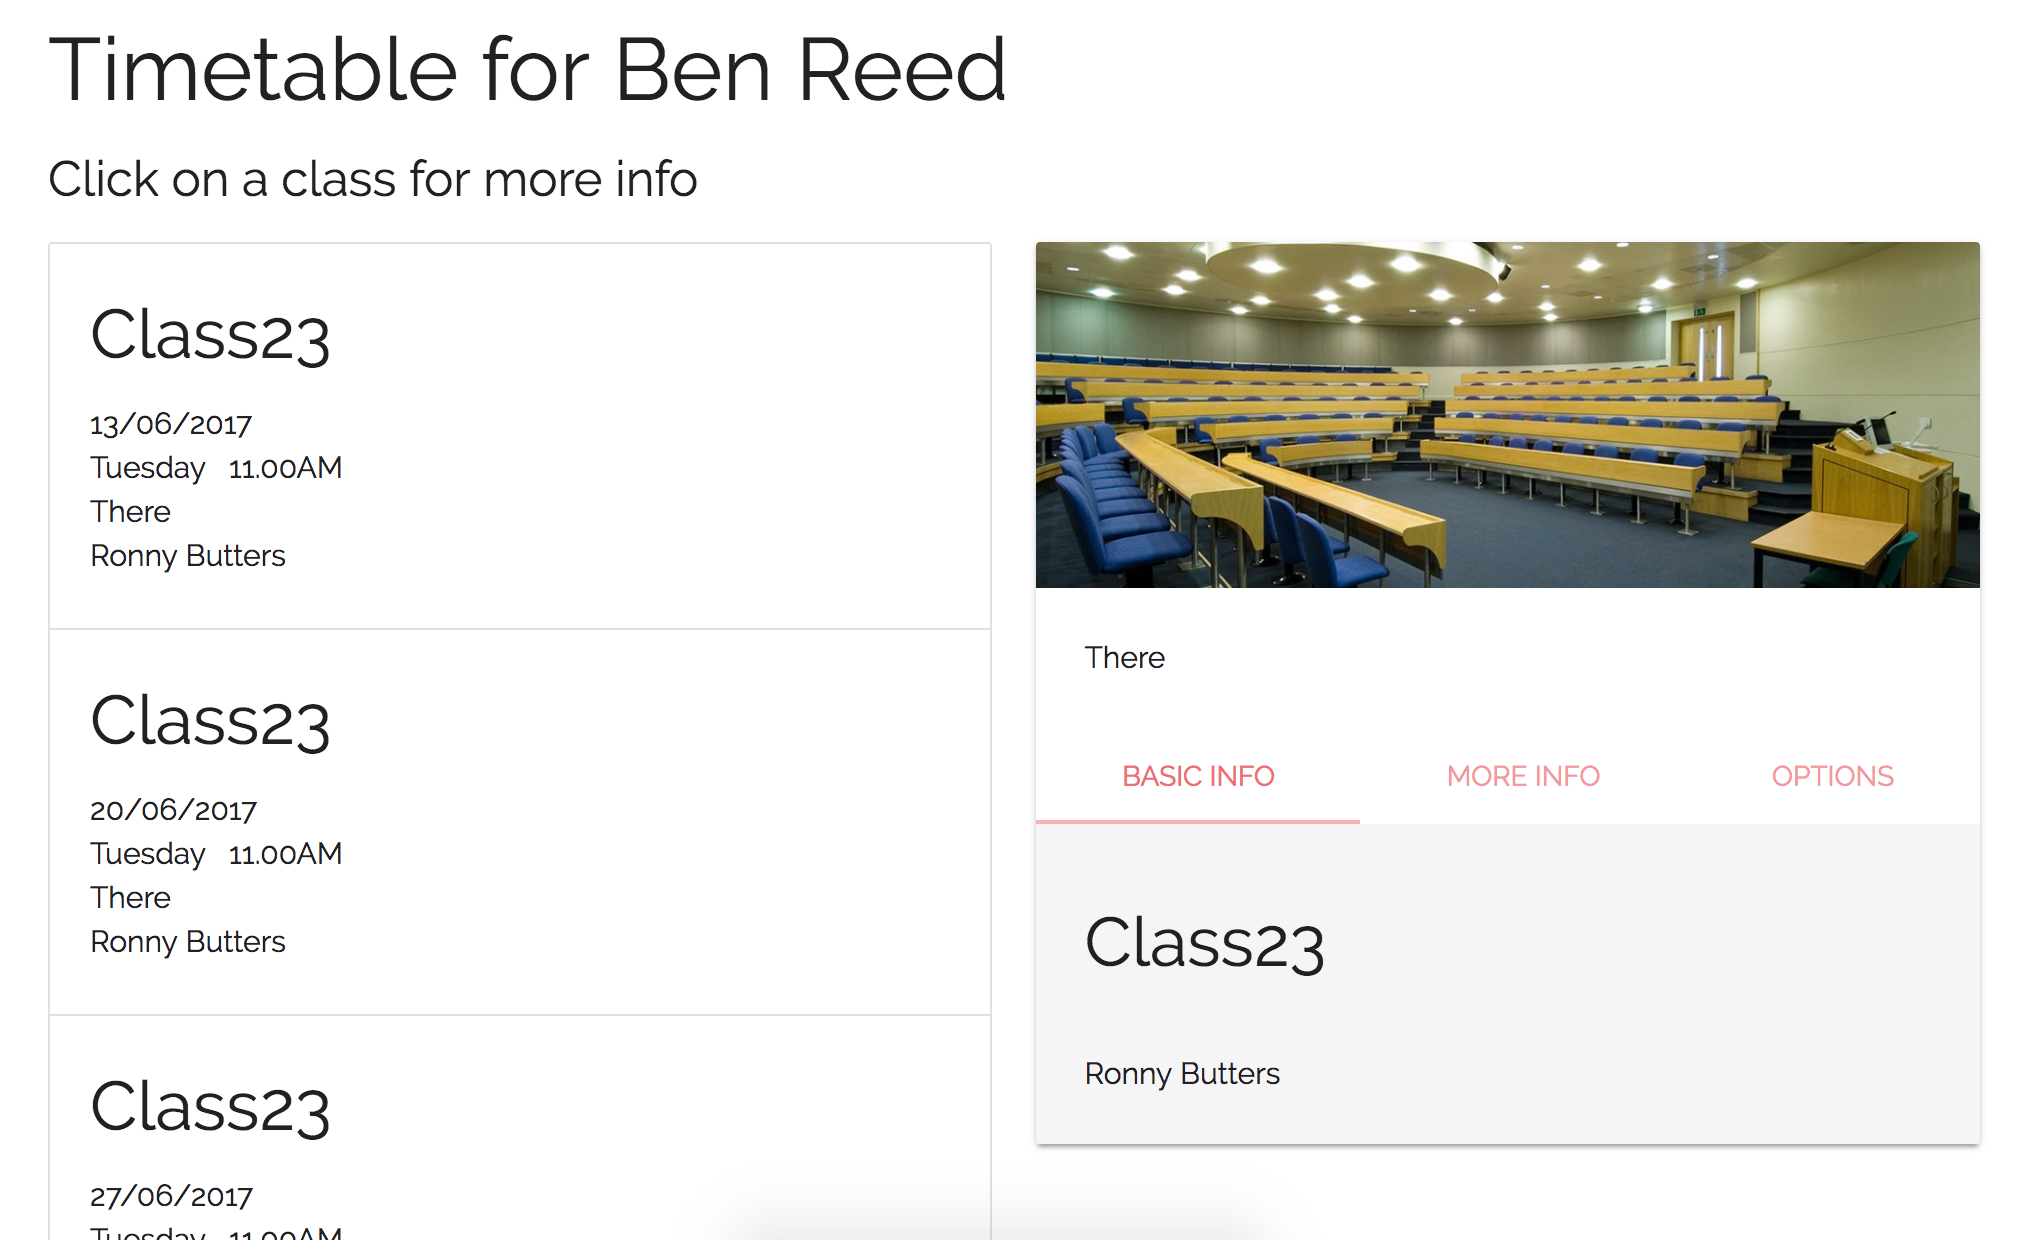
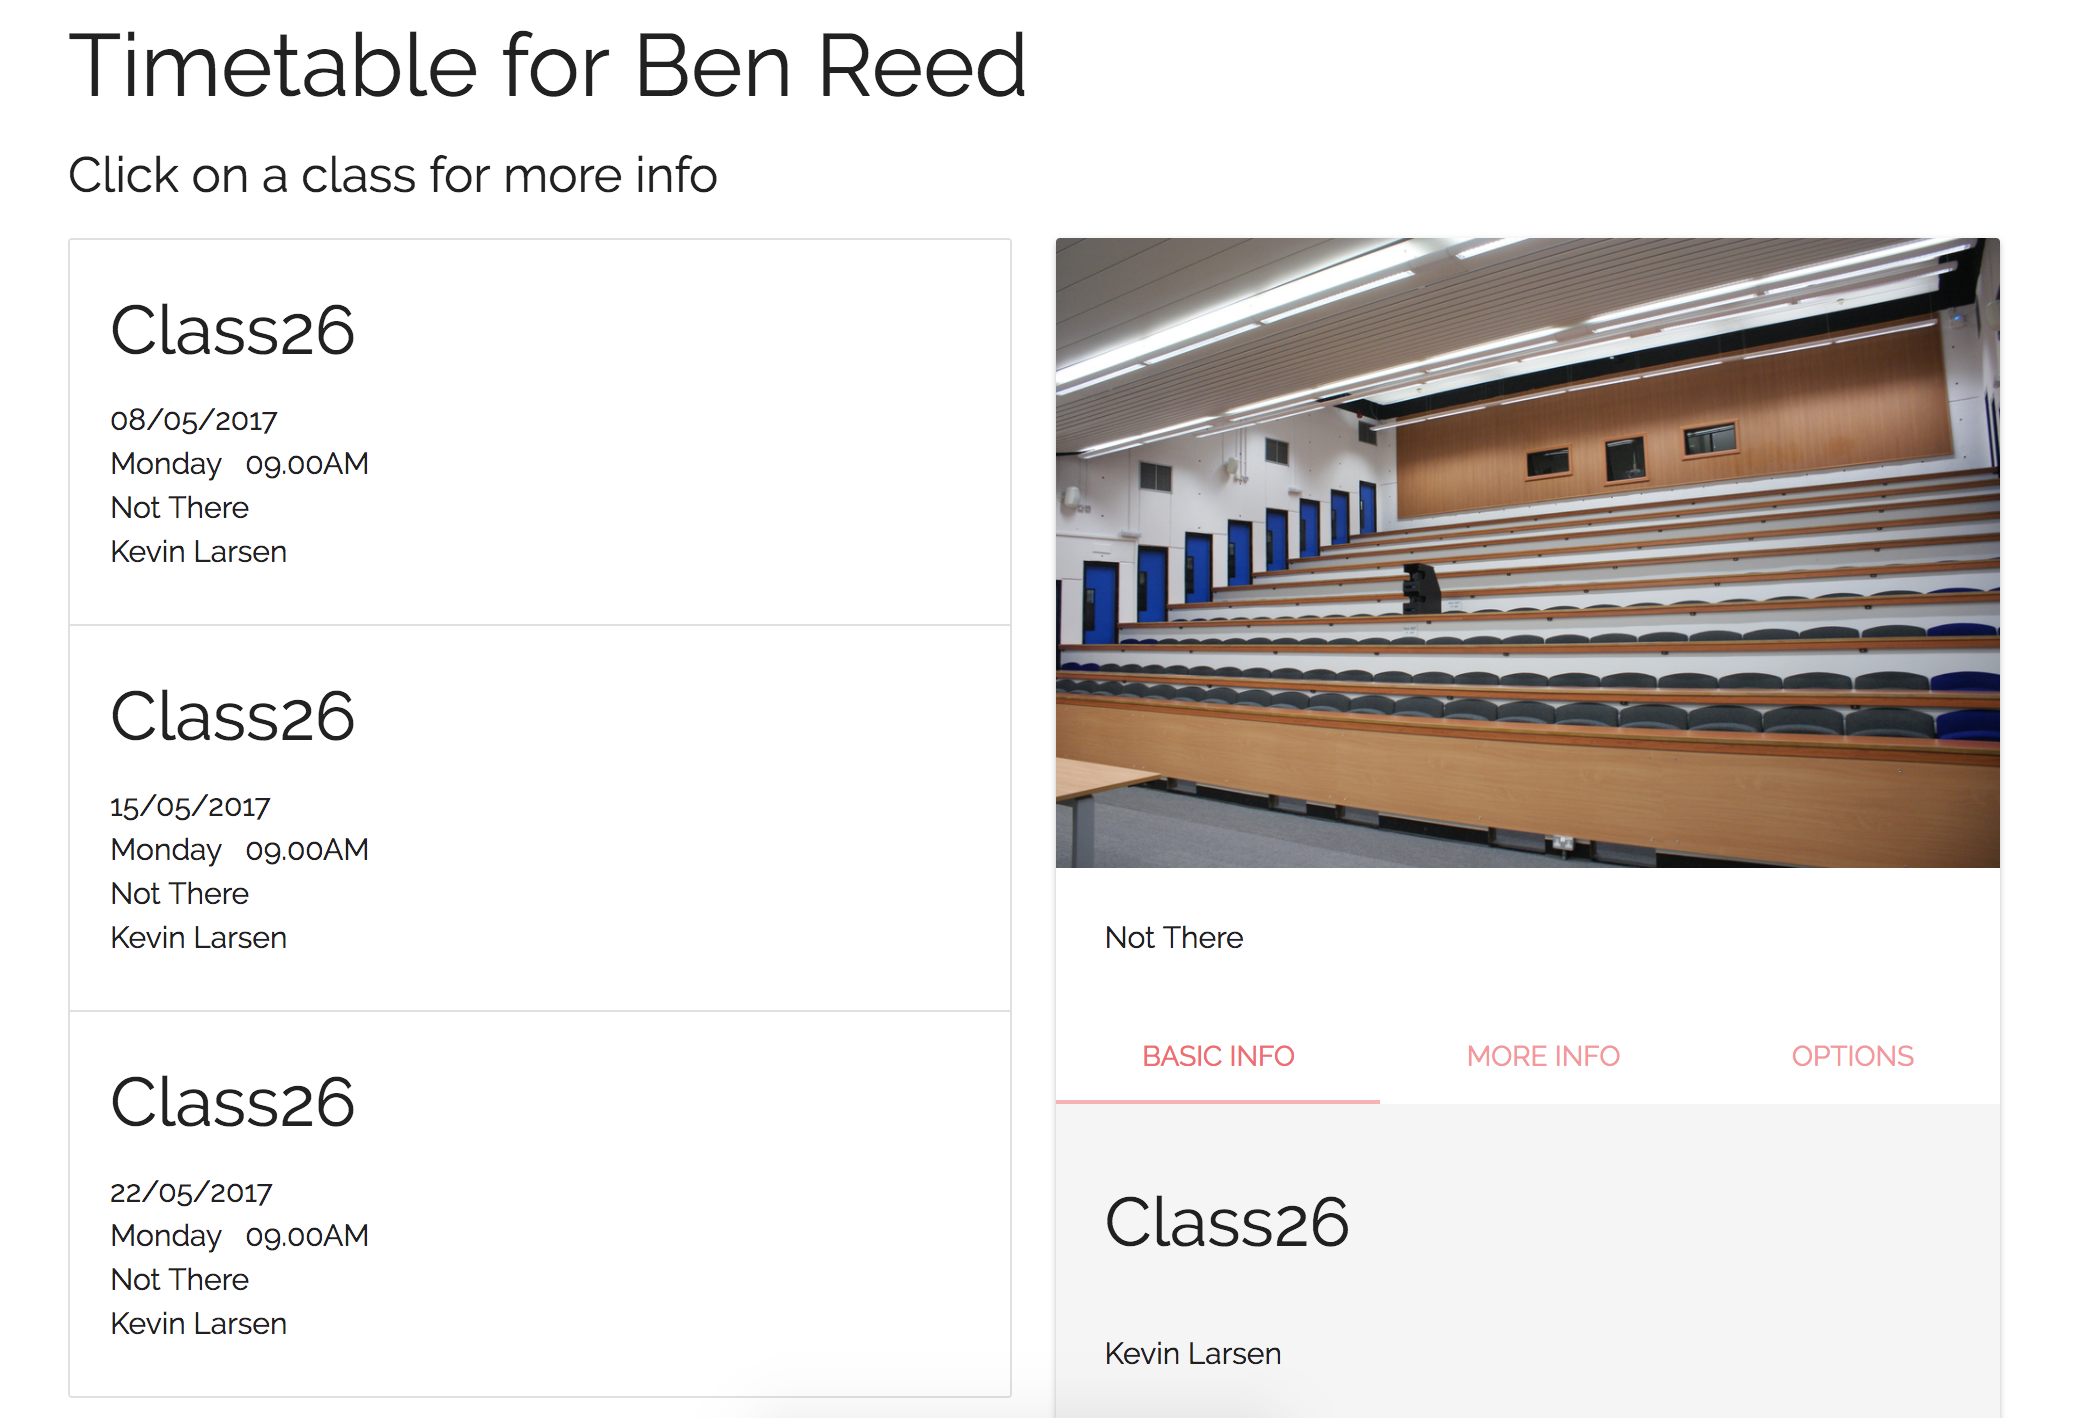
Cancel module test.

diff --git a/ui-testing/testing.tex b/ui-testing/testing.tex
@@ -25,7 +25,8 @@ That is, tests that mimic the behaviour that is performed by a typical user in a
 \screen{0.8}{sign-in-form}{A screenshot of the sign-in form.}
 We expect that on entry of correct login details we are able to successfully login, while incorrect login details results in a message telling us that something is wrong.
 As expected, we receive an error message in the top-right corner when entering incorrect login details:
-\screen{0.8}{sign-in-fail}{Unsuccessful sign-in attempt.}
+\screen{0.8}{sign-in-fail}{Unsuccessful sign-in attempt.}\\
+and the user is logged in successfully if they provide a correct username and password.
 
 \section{View Timetable}
 One of the fundamental features of the website is timetables.
@@ -35,5 +36,13 @@ It is expected that the information presented in this card updates according to 
 \screen{1}{timetable}{List of upcoming classes, and a card showing the room and more information.}\\
 As expected, the timetable lists all upcoming classes for the delegate.
 Upon clicking a class, the card is updated accordingly.
+
+\section{Cancel Module}
+As shown in the figure in the above section, the delegate Ben Reed is signed up for a module titled `Class26'.
+Suppose that he wishes to cancel his attendance for this module.
+To do this, he must click on one instance of a class for this module, go to `Options' on the card, and click the button titled `Cancel Module'.
+We expect that after clicking this button, entries for `Class26' are no longer shown in Ben's timetable as he is no longer a member of that module.
+The website performed as expected:
+\screen{1}{timetable-removed}{Ben Reed's timetable after cancelling the module `Class26'.}
 
 \end{document}
